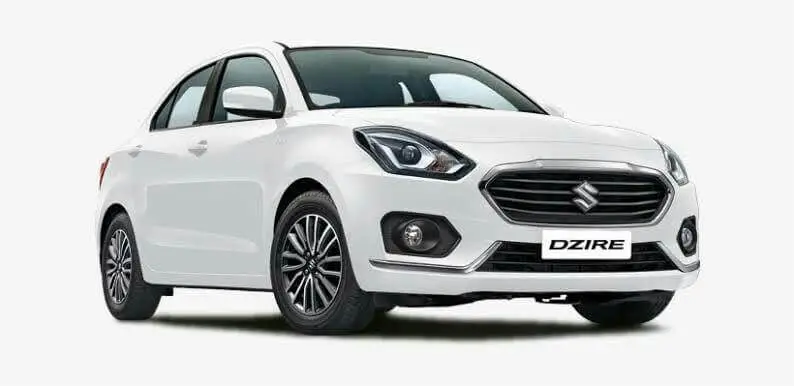
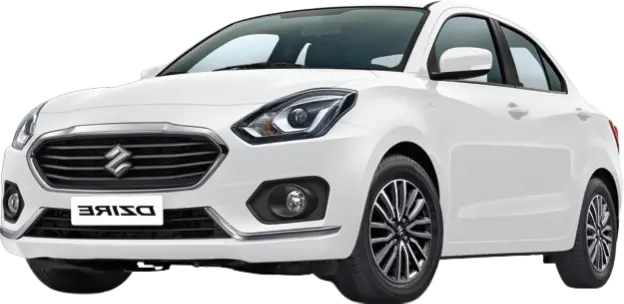
all in webp converted files

diff --git a/public/index.html b/public/index.html
@@ -2,14 +2,16 @@
 <html lang="en">
   <head>
     <meta charset="utf-8" />
-    <link rel="icon" href="%PUBLIC_URL%/carjodhpur.jpg" />
+    <link rel="icon" href="%PUBLIC_URL%/favicon.ico" />
+
     <meta name="viewport" content="width=device-width, initial-scale=1" />
     <meta name="theme-color" content="#000000" />
     <meta
-      name="We offer tour taxi service in jodhpur rajasthan with certified drivers and Clean new cars. you can book from here for local and outstation tour."
-      content="car rental service in jodhpur"
+      name="car rental jodhpur"
+      content="We offer tour taxi service in jodhpur rajasthan with certified drivers and Clean new cars. you can book from here for local and outstation tour."
     />
-    <link rel="apple-touch-icon" href="%PUBLIC_URL%/carjodhpur.jpg" />
+    <link rel="apple-touch-icon" href="%PUBLIC_URL%/apple-touch-icon.png" />
+
     <!--
     
       manifest.json provides metadata used when your web app is installed on a
@@ -19,15 +21,7 @@
     <!-- <link rel="preload" as="image" href="/src/assets/slide-image/mehrangadh-right.webp" />
     <link rel="preload" as="image" href="/src/assets/slide-image/slide1.webp" />
     <link rel="preload" as="image" href="/src/assets/slide-image/rajasthan-wallpaper.webp"/> -->
-    <!--
-      Notice the use of %PUBLIC_URL% in the tags above.
-      It will be replaced with the URL of the `public` folder during the build.
-      Only files inside the `public` folder can be referenced from the HTML.
-
-      Unlike "/favicon.ico" or "favicon.ico", "%PUBLIC_URL%/favicon.ico" will
-      work correctly both with client-side routing and a non-root public URL.
-      Learn how to configure a non-root public URL by running `npm run build`.
-    -->
+   
     <title>CAR TOURS JODHPUR</title>
     <!-- google font start -->
     <link rel="preconnect" href="https://fonts.googleapis.com">
@@ -45,8 +39,6 @@
       You can add webfonts, meta tags, or analytics to this file.
       The build step will place the bundled scripts into the <body> tag.
 
-      To begin the development, run `npm start` or `yarn start`.
-      To create a production bundle, use `npm run build` or `yarn build`.
     -->
   </body>
 </html>

diff --git a/src/components/car-sliding/CarsSliding.js b/src/components/car-sliding/CarsSliding.js
@@ -2,15 +2,14 @@ import React, { useState } from "react";
 import Carousel from "react-multi-carousel";
 import "react-multi-carousel/lib/styles.css";
 import "./CarSliding.css";
-
-import innova_crysta from "../../assets/cars-details/new-image.jpg";
-import swiftDezire from "../../assets/cars-details/SWIFT-DZIRE.jpg";
-import tempo1 from "../../assets/cars-details/new-tampo.png";
-import etios from "../../assets/cars-details/toyoto-etios.png";
+import innova_crysta from "../../assets/cars-details/new-image.webp";
+import swiftDezire from "../../assets/cars-details/SWIFT-DZIRE.webp";
+import tempo1 from "../../assets/cars-details/new-tampo.webp";
+import etios from "../../assets/cars-details/toyoto-etios.webp";
 import innova from "../../assets/cars-details/TOYOTA-INNOVA.webp";
-import ub from "../../assets/cars-details/Urbania-LWB.png";
-import kiaCarans from "../../assets/cars-details/new-kia-carans.jpg";
-import tourM from "../../assets/cars-details/tour-m.png";
+import ub from "../../assets/cars-details/Urbania-LWB.webp";
+import kiaCarans from "../../assets/cars-details/new-kia-carans.webp";
+import tourM from "../../assets/cars-details/tour-m.webp";
 
 export default function CarsSliding() {
   const [autoPlay, setAutoPlay] = useState(true);

diff --git a/src/components/navbar/MainNevbar.js b/src/components/navbar/MainNevbar.js
@@ -6,7 +6,7 @@ import { FaFacebook } from "react-icons/fa";
 import { RiMenu3Fill } from "react-icons/ri";
 import { MdArrowDropDown } from "react-icons/md";
 import "./MainNevbar.css";
-import instaLogo from "../../assets/insta-logo.png";
+import instaLogo from "../../assets/insta-logo.webp";
 import { useState } from "react";
 
 const MainNevbar = () => {

diff --git a/src/components/WhatsApp/Floating.js b/src/components/WhatsApp/Floating.js
@@ -1,6 +1,6 @@
 import React from "react";
-import callLogo from "../../assets/call-logo.png";
-import whatsappLogo from "../../assets/whatsapp-logo.png";
+import callLogo from "../../assets/call-logo.webp";
+import whatsappLogo from "../../assets/whatsapp-logo.webp";
 import "./Floating.css";
 
 function whatsappopen() {

diff --git a/src/components/WhatsApp/SocialMedia.js b/src/components/WhatsApp/SocialMedia.js
@@ -1,6 +1,6 @@
 import React from 'react'
-import insta from '../../assets/insta-logo.png'
-import whatsApp from '../../assets/whatsapp-logo.png'
+import insta from '../../assets/insta-logo.webp'
+import whatsApp from '../../assets/whatsapp-logo.webp'
 import { FaFacebook } from "react-icons/fa";
 
   

diff --git a/src/components/introduction/Intro.js b/src/components/introduction/Intro.js
@@ -1,4 +1,4 @@
-import car2 from "../../assets/intro-pic.jpg";
+import car2 from "../../assets/intro-pic.webp";
 
 import "./Intro.css";
 
